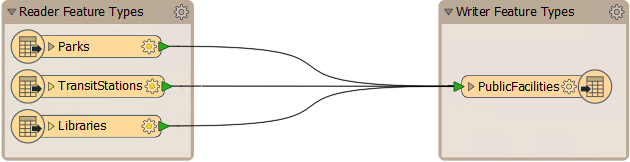
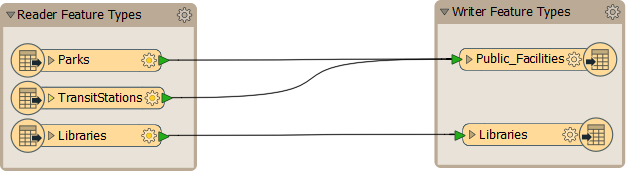
2018 Ch2 Cleanup of Structural Transformation

diff --git a/DesktopBasic2Transformation/2.04.SchemaMapping.md b/DesktopBasic2Transformation/2.04.SchemaMapping.md
@@ -46,7 +46,7 @@ Merging and splitting of data is permitted:
 
 ![](./Images/Img2.014.SchemaMappingMergedConnections.png)
 
-Here a user requires a single layer in the output and so is merging three reader feature types (Parks, Stations, Libraries) into one writer feature type (PublicFacilities).
+Here a user requires both Parks and TransitStations to be on a single layer in the output and so merges those two reader feature types into one writer feature type (PublicFacilities), keeping Libraries as a separate output table.
 
 ---
 
